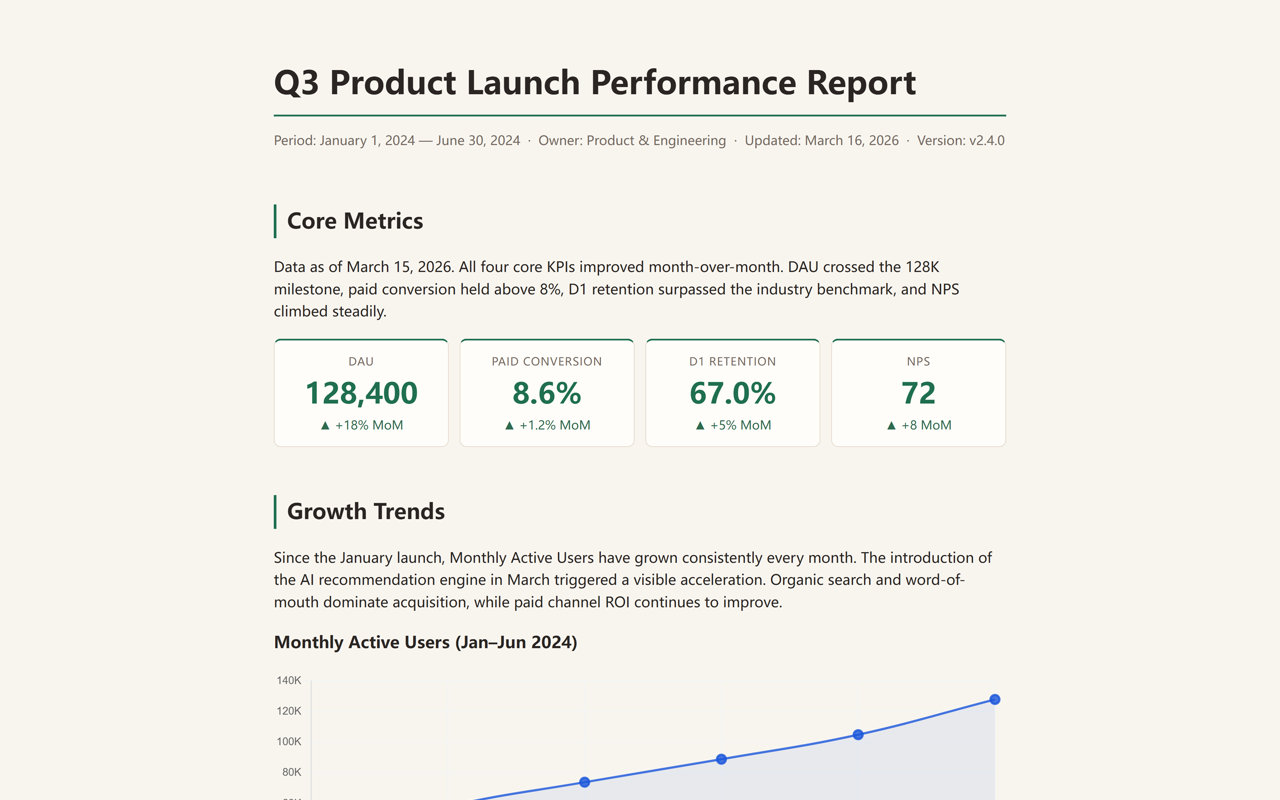
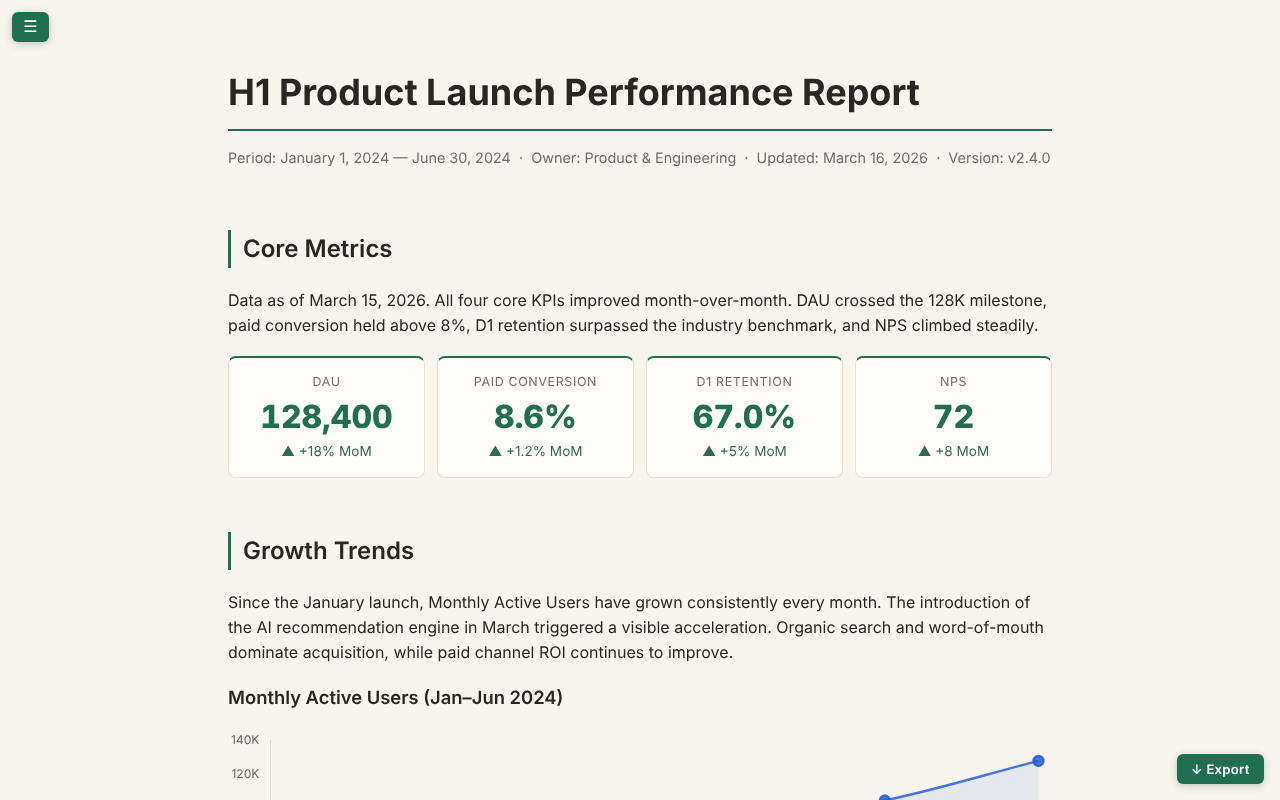
Fix stale content in docs and samples
Use H1/H2 in sample reports that cover January to June, fix README section numbers, label the demo review reports correctly, and remove local author paths.

Claude-Session: https://claude.ai/code/session_01TZmhiAp7N2iuhNTaqogweP

diff --git a/templates/en/forest-editorial.html b/templates/en/forest-editorial.html
@@ -9,7 +9,7 @@
 {
   "@context": "http:\/\/schema.org\/",
   "@type": "Report",
-  "name": "Q3 Product Launch Performance Report",
+  "name": "H1 Product Launch Performance Report",
   "inLanguage": "en-US",
   "dateCreated": "2026-04-04",
   "creator": {
@@ -581,7 +581,7 @@ blockquote { border-left: 3px solid var(--accent); margin: .8rem 0; padding: .55
 <script type="application/json" id="report-summary">
 {
   "title": "forest-editorial Theme — Full Component Showcase",
-  "subtitle": "Q3 Product Launch Performance Report",
+  "subtitle": "H1 Product Launch Performance Report",
   "generated": "2026-03-16",
   "sections": [
     "Core Metrics",
@@ -607,10 +607,10 @@ blockquote { border-left: 3px solid var(--accent); margin: .8rem 0; padding: .55
   <section class="report-cover" id="report-cover">
     <p class="cover-eyebrow">FOREST EDITORIAL · PAPER-GREEN REPORT THEME</p>
     <div class="cover-title-row">
-      <h1>Q3 <span class="cover-highlight">Product Launch</span> Performance Report</h1>
+      <h1>H1 <span class="cover-highlight">Product Launch</span> Performance Report</h1>
       <button class="card-mode-btn" id="card-mode-btn" title="Summary card">⊞ Summary</button>
     </div>
-    <p class="cover-lead">Q3 delivered broad-based gains across every core metric: DAU crossed the 128K milestone (+18% MoM), paid conversion held above 8%, and five of eight roadmap features shipped on schedule.</p>
+    <p class="cover-lead">H1 delivered broad-based gains across every core metric: DAU crossed the 128K milestone (+18% MoM), paid conversion held above 8%, and five of eight roadmap features shipped on schedule.</p>
     <p class="cover-meta">Product &amp; Engineering · Updated March 16, 2026</p>
     <div class="cover-chips">
       <span class="cover-chip">Period: Jan 1 – Jun 30, 2024</span>
@@ -630,7 +630,7 @@ blockquote { border-left: 3px solid var(--accent); margin: .8rem 0; padding: .55
       </div>
       <div class="cover-card">
         <p class="cover-card-label">NEXT STEP</p>
-        <p class="cover-card-title">Ship the Q4 roadmap</p>
+        <p class="cover-card-title">Ship the H2 roadmap</p>
         <p class="cover-card-text">Finish enterprise permissions and launch the plugin marketplace MVP ahead of GA.</p>
       </div>
     </div>
@@ -705,7 +705,7 @@ blockquote { border-left: 3px solid var(--accent); margin: .8rem 0; padding: .55
     <!-- ═══════════════════════════════════════════════════════ -->
     <section id="section-features" data-section="features">
       <h2>Feature Completion</h2>
-      <p>Eight core features were scoped for Q3. Five are fully shipped, two are in active development, and one is yet to start. Overall engineering progress is on schedule; quality gate pass rate stands at 96.4%.</p>
+      <p>Eight core features were scoped for H1. Five are fully shipped, two are in active development, and one is yet to start. Overall engineering progress is on schedule; quality gate pass rate stands at 96.4%.</p>
 
       <div class="table-wrapper fade-in-up" data-component="table" data-summary="Feature completion status">
         <table class="report-table">
@@ -779,8 +779,8 @@ blockquote { border-left: 3px solid var(--accent); margin: .8rem 0; padding: .55
         </table>
       </div>
 
-      <h3>Top 5 Priorities for Q4</h3>
-      <div class="report-list fade-in-up" data-component="list" data-summary="Q4 top priorities">
+      <h3>Top 5 Priorities for H2</h3>
+      <div class="report-list fade-in-up" data-component="list" data-summary="H2 top priorities">
         <ol class="styled-list">
           <li>Complete role-inheritance model for Enterprise Permissions (est. 3 person-days)</li>
           <li>Ship Plugin Marketplace MVP: install, rate, and sandbox-run third-party extensions</li>
@@ -977,7 +977,7 @@ client = Client(
 # Build multi-turn conversation history
 history: list[ChatMessage] = [
     ChatMessage(role="system",  content="You are a concise product analytics assistant."),
-    ChatMessage(role="user",    content="Summarize the Q3 growth highlights for me."),
+    ChatMessage(role="user",    content="Summarize the H1 growth highlights for me."),
 ]
 
 # Streaming call
@@ -1132,7 +1132,7 @@ print("\nAssistant:", response.choices[0].message.content)
 
     <!-- Footer -->
     <footer style="margin-top:3rem; padding-top:1.5rem; border-top:1px solid var(--border); font-size:.82rem; color:var(--text-muted); text-align:center;">
-      Q3 Product Launch Performance Report &nbsp;·&nbsp; forest-editorial theme &nbsp;·&nbsp; Generated by kai-report-creator &nbsp;·&nbsp; 2026-03-16
+      H1 Product Launch Performance Report &nbsp;·&nbsp; forest-editorial theme &nbsp;·&nbsp; Generated by kai-report-creator &nbsp;·&nbsp; 2026-03-16
     </footer>
 
   </div><!-- /.report-wrapper -->

diff --git a/templates/en/corporate-blue.html b/templates/en/corporate-blue.html
@@ -3,12 +3,12 @@
 <head>
   <meta charset="UTF-8">
   <meta name="viewport" content="width=device-width, initial-scale=1.0">
-  <title>Q3 Product Launch Performance Report — corporate-blue Theme Example</title>
+  <title>H1 Product Launch Performance Report — corporate-blue Theme Example</title>
   <script type="application/ld+json">
 {
   "@context": "http:\/\/schema.org\/",
   "@type": "Report",
-  "name": "Q3 Product Launch Performance Report",
+  "name": "H1 Product Launch Performance Report",
   "inLanguage": "en-US",
   "dateCreated": "2026-04-04",
   "creator": {
@@ -277,7 +277,7 @@
 <script type="application/json" id="report-summary">
 {
   "title": "corporate-blue Theme — Full Component Showcase",
-  "subtitle": "Q3 Product Launch Performance Report",
+  "subtitle": "H1 Product Launch Performance Report",
   "generated": "2026-03-16",
   "sections": [
     "Core Metrics",
@@ -303,7 +303,7 @@
   <div class="report-wrapper">
 
     <!-- ── Header ─────────────────────────────────────────────── -->
-    <h1>Q3 Product Launch Performance Report</h1>
+    <h1>H1 Product Launch Performance Report</h1>
     <p class="report-meta">
       Period: January 1, 2024 — June 30, 2024 &nbsp;·&nbsp;
       Owner: Product &amp; Engineering &nbsp;·&nbsp;
@@ -371,7 +371,7 @@
     <!-- ═══════════════════════════════════════════════════════ -->
     <section id="section-features" data-section="features">
       <h2>Feature Completion</h2>
-      <p>Eight core features were scoped for Q3. Five are fully shipped, two are in active development, and one is yet to start. Overall engineering progress is on schedule; quality gate pass rate stands at 96.4%.</p>
+      <p>Eight core features were scoped for H1. Five are fully shipped, two are in active development, and one is yet to start. Overall engineering progress is on schedule; quality gate pass rate stands at 96.4%.</p>
 
       <div class="table-wrapper fade-in-up" data-component="table" data-summary="Feature completion status">
         <table class="report-table">
@@ -445,8 +445,8 @@
         </table>
       </div>
 
-      <h3>Top 5 Priorities for Q4</h3>
-      <div class="report-list fade-in-up" data-component="list" data-summary="Q4 top priorities">
+      <h3>Top 5 Priorities for H2</h3>
+      <div class="report-list fade-in-up" data-component="list" data-summary="H2 top priorities">
         <ol class="styled-list">
           <li>Complete role-inheritance model for Enterprise Permissions (est. 3 person-days)</li>
           <li>Ship Plugin Marketplace MVP: install, rate, and sandbox-run third-party extensions</li>
@@ -643,7 +643,7 @@ client = Client(
 # Build multi-turn conversation history
 history: list[ChatMessage] = [
     ChatMessage(role="system",  content="You are a concise product analytics assistant."),
-    ChatMessage(role="user",    content="Summarize the Q3 growth highlights for me."),
+    ChatMessage(role="user",    content="Summarize the H1 growth highlights for me."),
 ]
 
 # Streaming call
@@ -798,7 +798,7 @@ print("\nAssistant:", response.choices[0].message.content)
 
     <!-- Footer -->
     <footer style="margin-top:3rem; padding-top:1.5rem; border-top:1px solid var(--border); font-size:.82rem; color:var(--text-muted); text-align:center;">
-      Q3 Product Launch Performance Report &nbsp;·&nbsp; corporate-blue theme &nbsp;·&nbsp; Generated by kai-report-creator &nbsp;·&nbsp; 2026-03-16
+      H1 Product Launch Performance Report &nbsp;·&nbsp; corporate-blue theme &nbsp;·&nbsp; Generated by kai-report-creator &nbsp;·&nbsp; 2026-03-16
     </footer>
 
   </div><!-- /.report-wrapper -->

diff --git a/README.md b/README.md
@@ -659,13 +659,13 @@ For offline bundles with `--bundle`: internet connection needed once to inline C
 
 **v1.22.0** — Reference split and validator profile release: split oversized shell and rendering contracts into route-specific child references, add a reference index and validator-facing usage boundary artifacts, add a generated-cache cleanup gate to release verification, and document golden eval cases for external validators.
 
-**v1.21.2** — Packaging cleanup: remove the tracked `docs/` directory from GitHub and ClawHub packages, ignore the local docs symlink, and keep project documentation in `/Users/song/projects/mydocs/report-creator`.
+**v1.21.2** — Packaging cleanup: remove the tracked `docs/` directory from GitHub and ClawHub packages, ignore the local docs symlink, and keep project documentation outside the repository.
 
 **v1.21.1** — Skill prompt budget release: compress `SKILL.md` into a thin routing contract under 320 lines, move shell metadata and duplicate-date details into references, add a size-budget regression test, and include that test in the fast verification path.
 
 **v1.21.0** — Late-context isolation and release hardening: require `--generate` to extract exactly one IR block from context, add context isolation helpers plus late-context eval runner, expand release verification and fast-test coverage, normalize footer/watermark shell metadata, and tighten doc-sync guardrails.
 
-**v1.20.1** — Design philosophy expansion: added §6 (Contract Enforcement Before Render), §7 (Eval as Quality Boundary), §8 (Contract Checks as Programmable Guardrails) documenting the guard pipeline and eval workflow principles.
+**v1.20.1** — Design philosophy expansion: added §7 (Contract Enforcement Before Render), §8 (Eval as Quality Boundary), §9 (Contract Checks as Programmable Guardrails) documenting the guard pipeline and eval workflow principles.
 
 **v1.20.0** — Guard validation pipeline: Python guard (`scripts/guard_validate.py`) runs before HTML rendering with zero-drift report_class resolution, auto-downgrade invalid blocks (kpi→callout, chart→table, timeline→list, diagram→callout), IR hash embedding in `<meta name="ir-hash">` for traceability, and guard integration tests.
 

diff --git a/examples/review-reports/monthly-progress-demo-review-report.md b/examples/review-reports/monthly-progress-demo-review-report.md
@@ -1,9 +1,9 @@
 # Report Review Report
 
-**Target file:** [`examples/en/monthly-progress.html`](/Users/song/projects/report-creator/examples/en/monthly-progress.html)
+**Target file:** [`examples/en/monthly-progress.html`](../en/monthly-progress.html)
 **Review mode:** `manual demo`
 **Language:** `en`
-**Review scope:** `8-checkpoint review system`
+**Review scope:** `13-checkpoint review system` (this demo triggers the 8 content checkpoints listed below)
 
 ## Summary
 
@@ -62,8 +62,8 @@
 
 ## Files
 
-- Before: [`examples/en/monthly-progress.html`](/Users/song/projects/report-creator/examples/en/monthly-progress.html)
-- After: [`examples/en/monthly-progress-reviewed-demo.html`](/Users/song/projects/report-creator/examples/en/monthly-progress-reviewed-demo.html)
+- Before: [`examples/en/monthly-progress.html`](../en/monthly-progress.html)
+- After: [`examples/en/monthly-progress-reviewed-demo.html`](../en/monthly-progress-reviewed-demo.html)
 - Screenshot before: [/tmp/report-demo-before.png](/tmp/report-demo-before.png)
 - Screenshot after: [/tmp/report-demo-after.png](/tmp/report-demo-after.png)
 

diff --git a/examples/review-reports/business-report-demo-review-report.md b/examples/review-reports/business-report-demo-review-report.md
@@ -1,9 +1,9 @@
 # Report Review Report
 
-**Target file:** [`examples/en/business-report.html`](/Users/song/projects/report-creator/examples/en/business-report.html)
+**Target file:** [`examples/en/business-report.html`](../en/business-report.html)
 **Review mode:** `manual demo`
 **Language:** `en`
-**Review scope:** `8-checkpoint review system`
+**Review scope:** `13-checkpoint review system` (this demo triggers the 8 content checkpoints listed below)
 
 ## Summary
 
@@ -68,8 +68,8 @@
 
 ## Files
 
-- Before: [`examples/en/business-report.html`](/Users/song/projects/report-creator/examples/en/business-report.html)
-- After: [`examples/en/business-report-reviewed-demo.html`](/Users/song/projects/report-creator/examples/en/business-report-reviewed-demo.html)
+- Before: [`examples/en/business-report.html`](../en/business-report.html)
+- After: [`examples/en/business-report-reviewed-demo.html`](../en/business-report-reviewed-demo.html)
 
 ## Reviewer Notes
 
